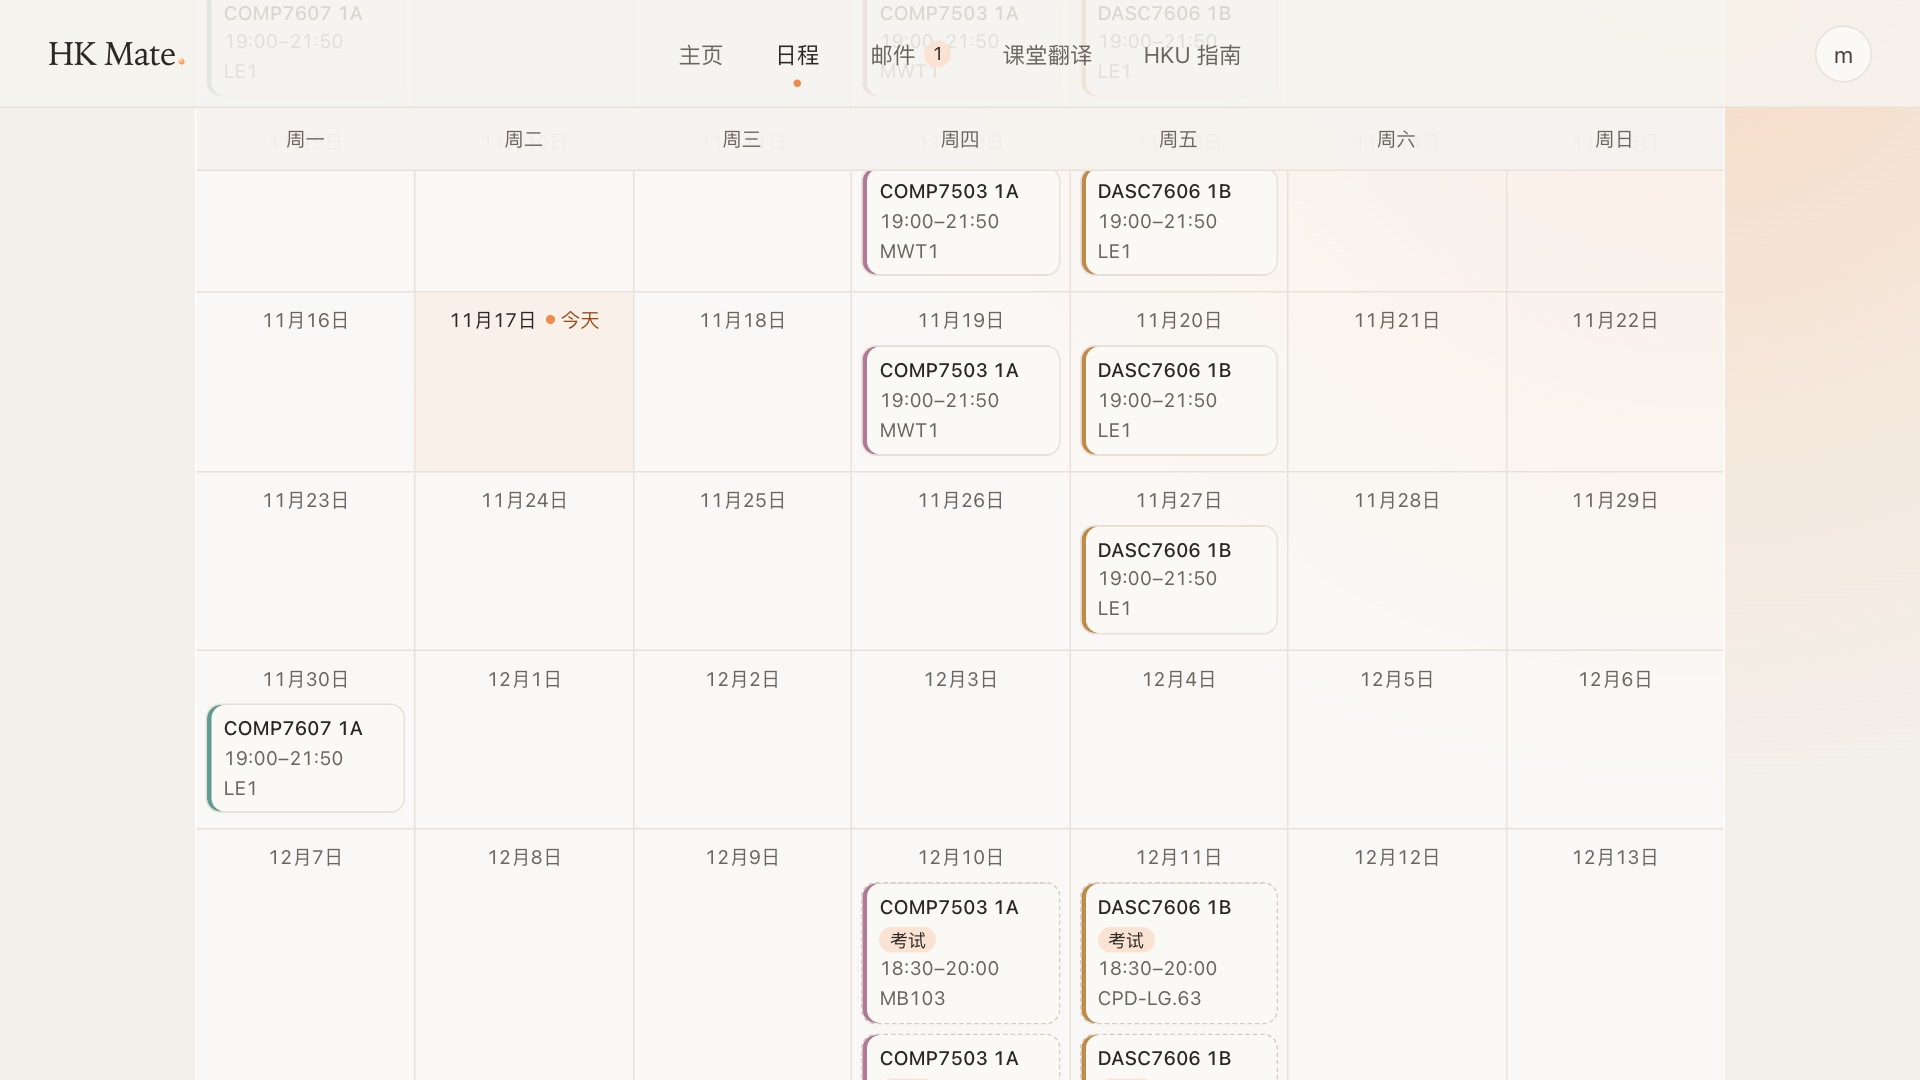
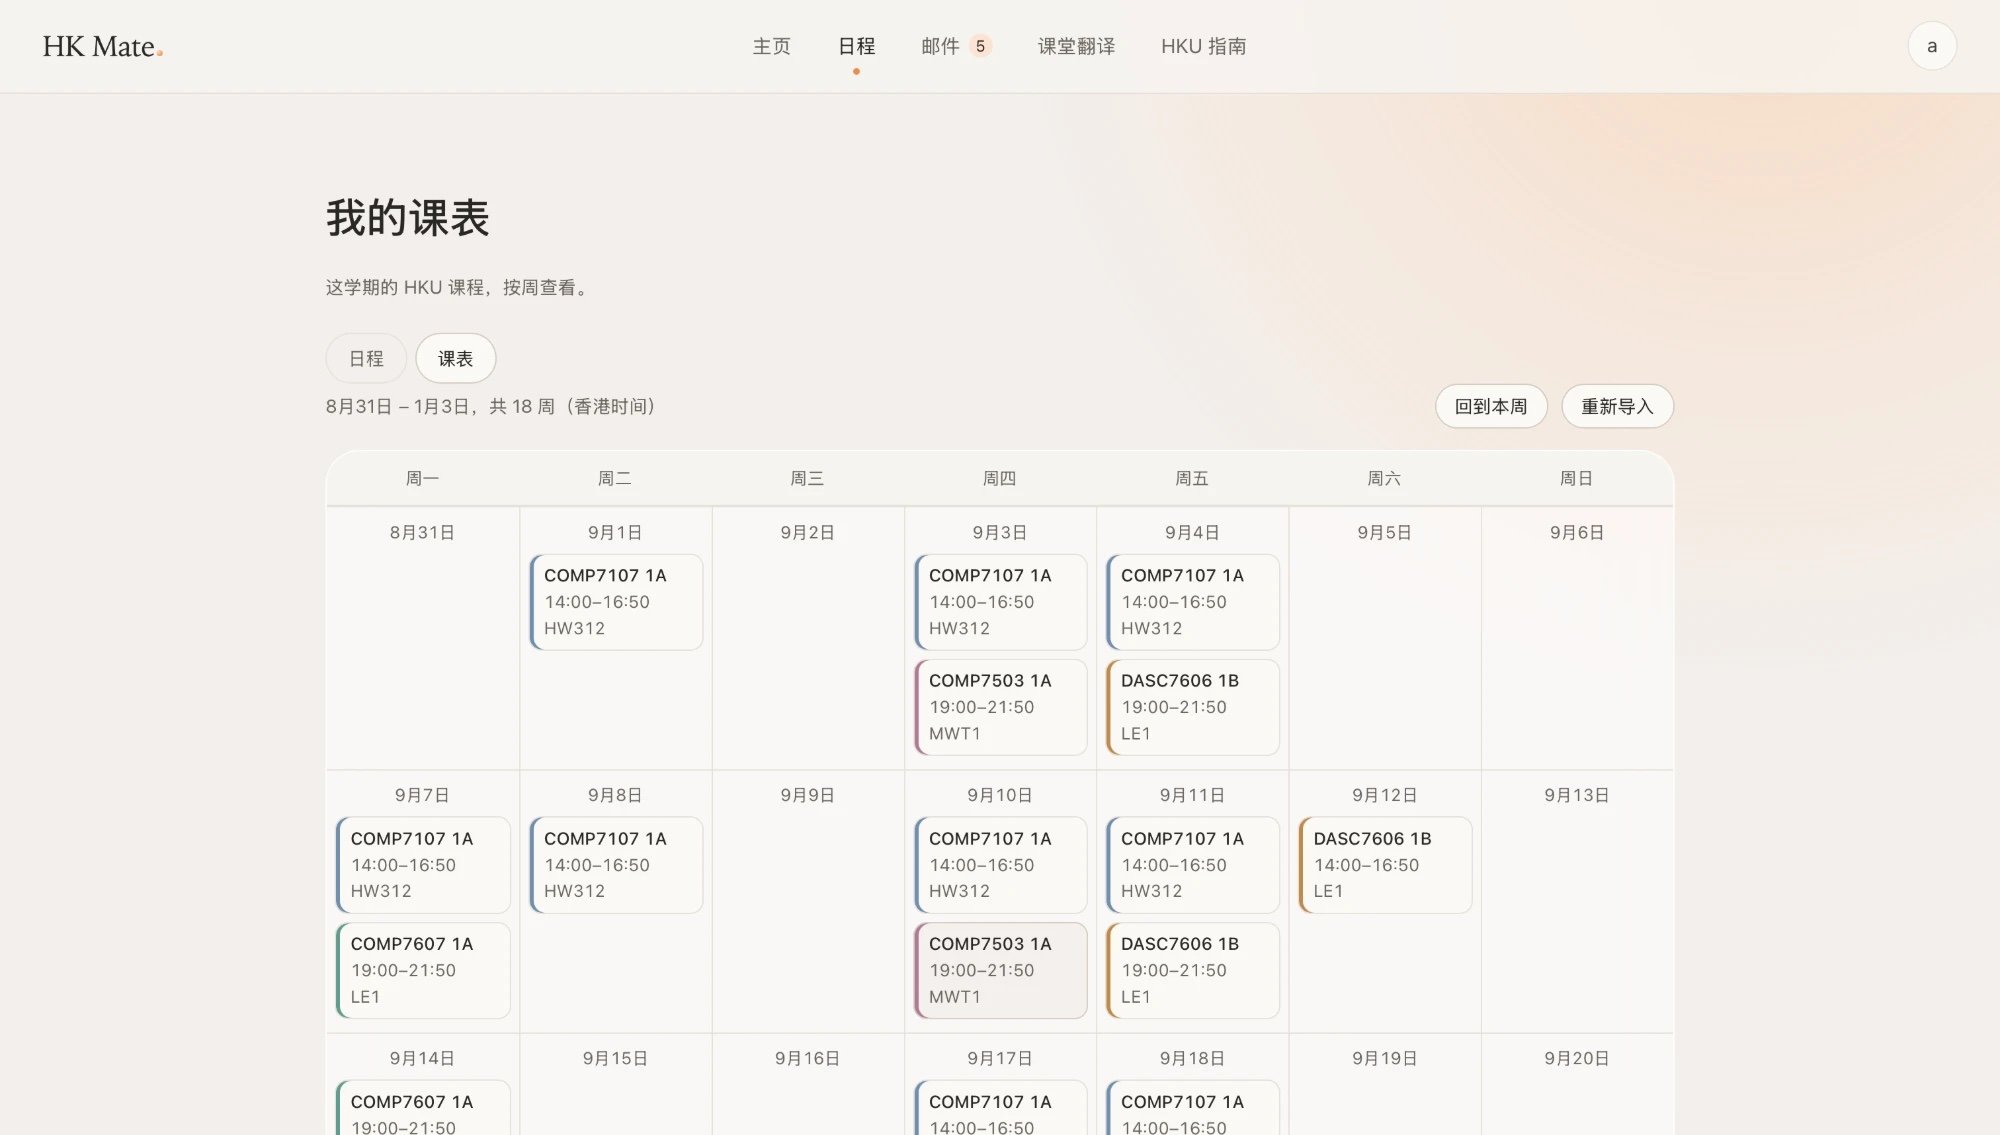
docs: README screenshots in menu order
One section per menu (Home, Schedule, Mail, Lectures, HKU guide), each
with a line of text and a full-width screenshot, so the images no longer
sit in uneven table columns. The timetable and the two campus-map
screenshots are the developer's own; unused screenshots are removed.

diff --git a/README.md b/README.md
@@ -8,24 +8,46 @@ HK Mate 是一个在自己电脑上运行的 Web 应用，把 Gmail、HKU 课表
 
 ## 界面预览
 
-![主页：接下来 5 天的课程、日程和截止事项，以及 AI 助手](docs/screenshots/zh/home.jpg)
+### 主页
 
-| 我的课表：粘贴链接导入整学期 |
-|---|---|
-| ![我的课表：粘贴链接导入整学期](docs/screenshots/zh/timetable.jpg) |
+按香港时间的问候和日期、AI 助手输入条，以及“接下来 5 天”的课程、日程和截止事项。
 
-| 我的日程：截止事项带剩余时间 | 邮件：分邮箱查看，自动分类和摘要 |
-|---|---|
-| ![我的日程：截止事项带剩余时间](docs/screenshots/zh/schedule.jpg) | ![邮件：分邮箱查看，自动分类和摘要](docs/screenshots/zh/mail.jpg) |
+![主页](docs/screenshots/zh/home.jpg)
 
-| 课堂翻译：英文讲课的中英双语字幕 | 课后重点：每条带时间点和原话 |
-|---|---|
-| ![课堂翻译：英文讲课的中英双语字幕](docs/screenshots/zh/lecture.jpg) | ![课后重点：每条带时间点和原话](docs/screenshots/zh/lecture-summary.jpg) |
+### 日程
 
+“我的课表”：粘贴 HKU Event Calendar 链接导入，整学期按周查看；“我的日程”里可以自己添加日程和截止事项。
 
-![HKU 指南：Main Library 逐层设施，按彩色打印筛选楼层](docs/screenshots/zh/guide.jpg)
+![我的课表](docs/screenshots/zh/timetable.jpg)
 
-截图来自演示账号，邮件为自行编写的示例。
+### 邮件
+
+每个邮箱一个标签页；新邮件由本机 AI 自动分类并写摘要，可查看原文、加入日程或起草回复。
+
+![邮件](docs/screenshots/zh/mail.jpg)
+
+### 课堂翻译
+
+英文讲课实时转成中英双语字幕，旁边可以记带时间点的笔记，下课后生成摘要和重点。
+
+![课堂翻译](docs/screenshots/zh/lecture.jpg)
+
+### HKU 指南
+
+图书馆：Main Library 逐层设施图，可按彩色打印、扫描、自习空间等筛选楼层。
+
+![HKU 指南：图书馆](docs/screenshots/zh/guide.jpg)
+
+交通与校园位置：港大官方主校园平面图和嵌入的官方在线地图，另有港铁、巴士和穿梭巴士信息。
+
+<table>
+  <tr>
+    <td width="50%"><img src="docs/screenshots/zh/guide-map.jpg" alt="官方主校园平面图" width="100%"><br><sub>官方主校园平面图</sub></td>
+    <td width="50%"><img src="docs/screenshots/zh/guide-official-map.jpg" alt="嵌入的官方在线地图" width="100%"><br><sub>嵌入的官方在线地图</sub></td>
+  </tr>
+</table>
+
+主页、邮件、课堂翻译和图书馆的截图来自演示账号，邮件为自行编写的示例。
 
 ## 亮点
 

diff --git a/README.en.md b/README.en.md
@@ -8,22 +8,39 @@ HK Mate is a web app that runs on your own computer. It brings together Gmail, y
 
 ## Screenshots
 
-![Home: classes, events and deadlines for the next 5 days, plus the AI assistant](docs/screenshots/en/home.jpg)
+### Home
 
-| AI assistant: where to eat nearby | Timetable: paste a link, get the whole semester |
-|---|---|
-| ![AI assistant: where to eat nearby](docs/screenshots/en/assistant.jpg) | ![Timetable: paste a link, get the whole semester](docs/screenshots/en/timetable.jpg) |
+A greeting and the date in Hong Kong time, the AI assistant, and classes, events and deadlines for the next 5 days.
 
-| Schedule: deadlines show the time left | Mail: one tab per mailbox, sorted and summarized |
-|---|---|
-| ![Schedule: deadlines show the time left](docs/screenshots/en/schedule.jpg) | ![Mail: one tab per mailbox, sorted and summarized](docs/screenshots/en/mail.jpg) |
+![Home](docs/screenshots/en/home.jpg)
 
-| Lectures: live English and Chinese captions | After class: key points with time and quote |
-|---|---|
-| ![Lectures: live English and Chinese captions](docs/screenshots/en/lecture.jpg) | ![After class: key points with time and quote](docs/screenshots/en/lecture-summary.jpg) |
+### Schedule
 
+Timetable: paste your HKU Event Calendar link to import it and browse the semester week by week. You can add your own events and deadlines under My schedule.
 
-![HKU guide: Main Library floor by floor, filtered by colour printing](docs/screenshots/en/guide.jpg)
+![Timetable](docs/screenshots/en/timetable.jpg)
+
+### Mail
+
+One tab per mailbox. The local AI sorts and summarizes new mail; you can read the original, add it to your schedule or draft a reply.
+
+![Mail](docs/screenshots/en/mail.jpg)
+
+### Lectures
+
+English lectures become live English and Chinese captions, with time-stamped notes alongside and a summary with key points after class.
+
+![Lectures](docs/screenshots/en/lecture.jpg)
+
+### HKU guide
+
+Library: the Main Library floor by floor; filter floors by colour printing, scanning, study space and more.
+
+![HKU guide: library](docs/screenshots/en/guide.jpg)
+
+Getting around: the official Main Campus map, plus MTR, bus and campus shuttle information.
+
+![Official Main Campus map](docs/screenshots/en/guide-map.jpg)
 
 Screenshots come from a demo account; the emails are self-written samples.
 
